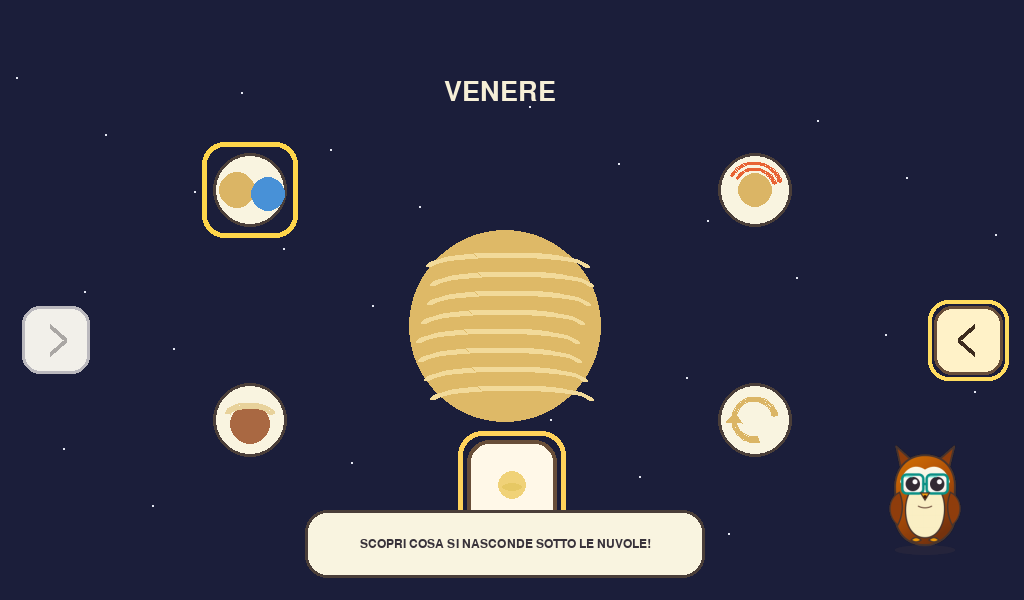
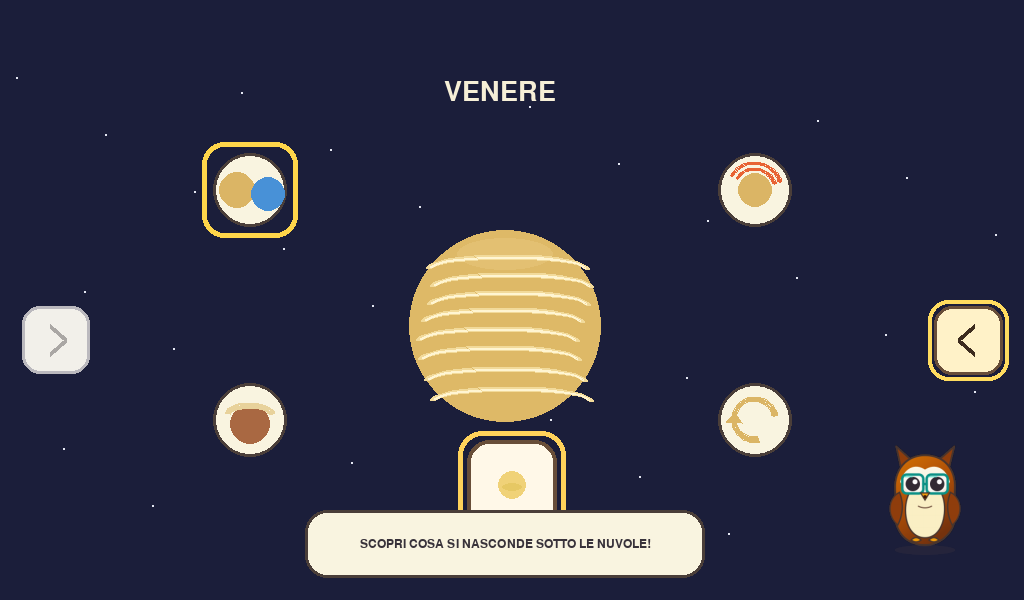
Encyclopedia: iterate space.venus - cloud wobble + highlight + depth
Iterative polish. Venus clouds now with volumetric highlight and subtle wobble, more tactile.

Changed region(s): [[0.4062, 0.42, 0.5938, 0.66]]

diff --git a/activities/enciclopedia_greia/pages/venus.py b/activities/enciclopedia_greia/pages/venus.py
@@ -231,17 +231,23 @@ class VenusPage(EncyclopediaPage):
 
         if not self._clouds_hidden:
             pygame.draw.circle(surface, (222, 185, 103), center, radius)
+            # Volumetric highlight
+            hl = pygame.Surface((radius * 2, radius * 2), pygame.SRCALPHA)
+            pygame.draw.ellipse(hl, (255, 235, 190, 32), (radius // 2, 8, radius, radius // 3))
+            surface.blit(hl, (center[0] - radius, center[1] - radius))
             for index in range(8):
                 y = center[1] - 65 + index * 19
                 wave = int(math.sin(self._time * 0.45 + index) * 8)
+                wobble = int(math.cos(self._time * 0.33 + index * 0.7) * 3)
                 pygame.draw.arc(
                     surface,
                     (242, 218, 154),
-                    (center[0] - 82 + wave, y - 8, 164, 30),
+                    (center[0] - 82 + wave, y - 8 + wobble, 164, 30),
                     0.05,
                     3.05,
                     5,
                 )
+                pygame.draw.arc(surface, (255, 245, 210, 22), (center[0] - 78 + wave, y - 6 + wobble, 156, 24), 0.05, 3.05, 2)
 
         if self._heat_age > 0:
             for ring in range(4):
